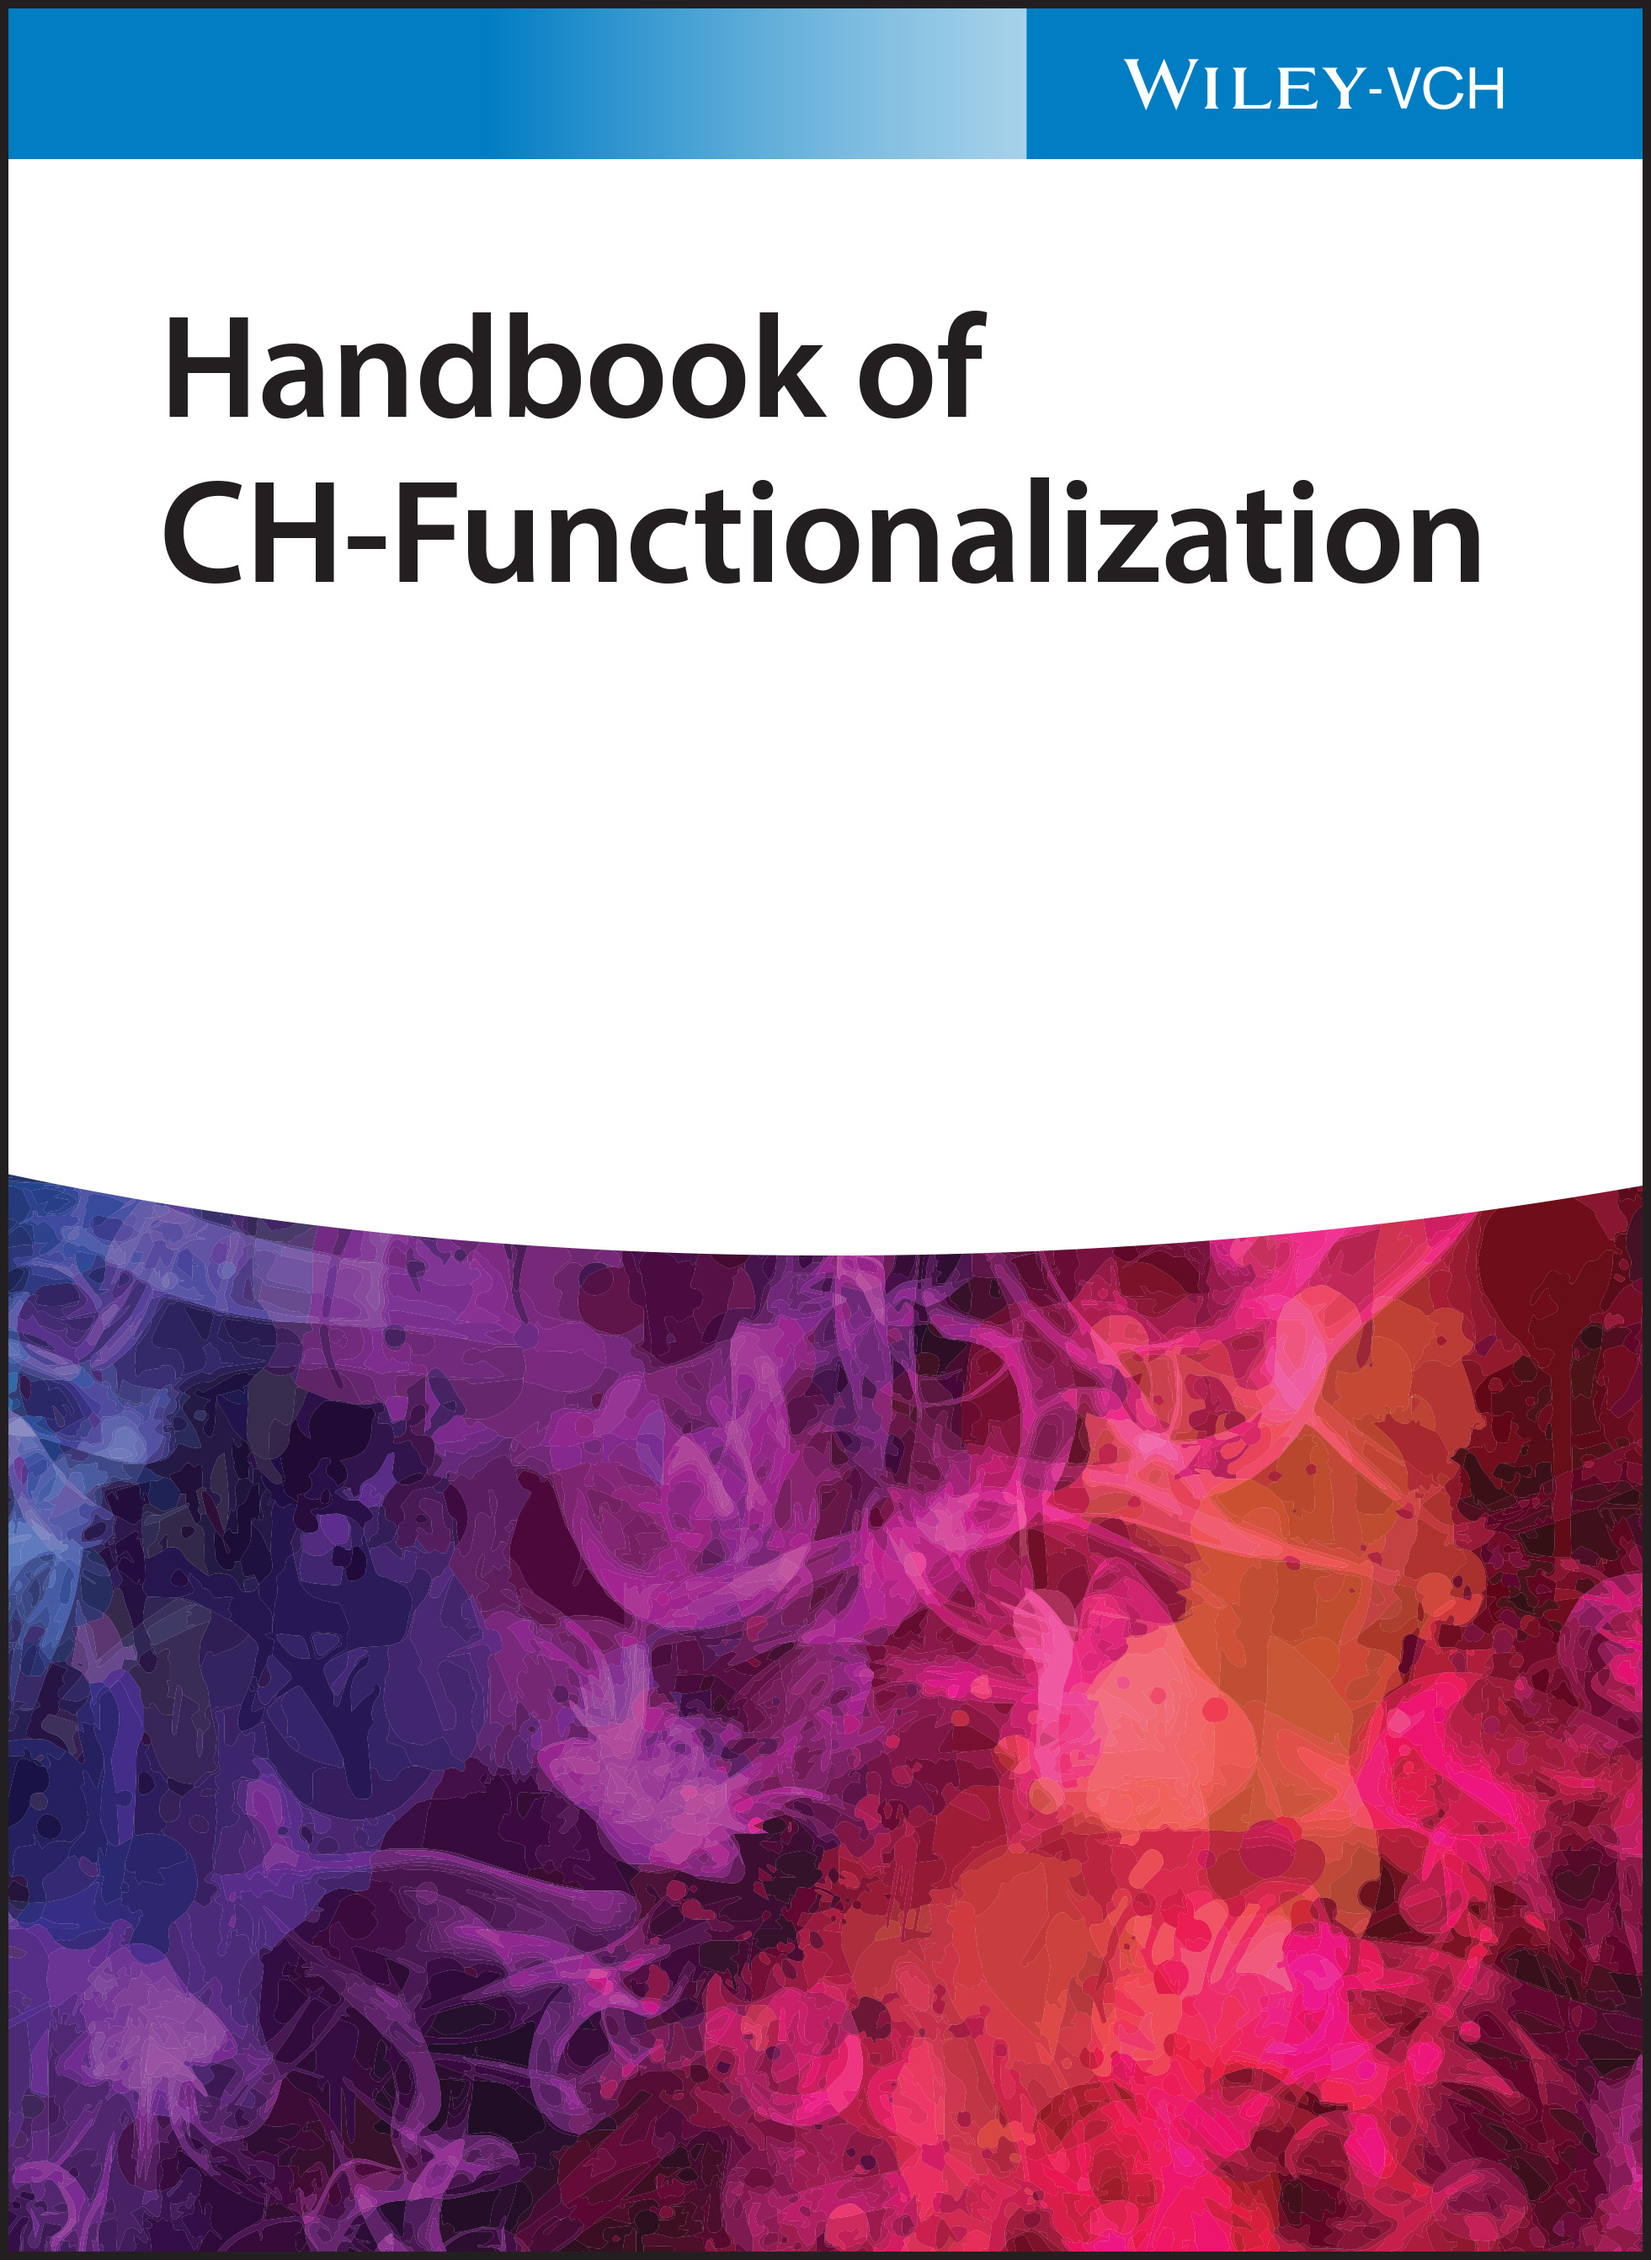
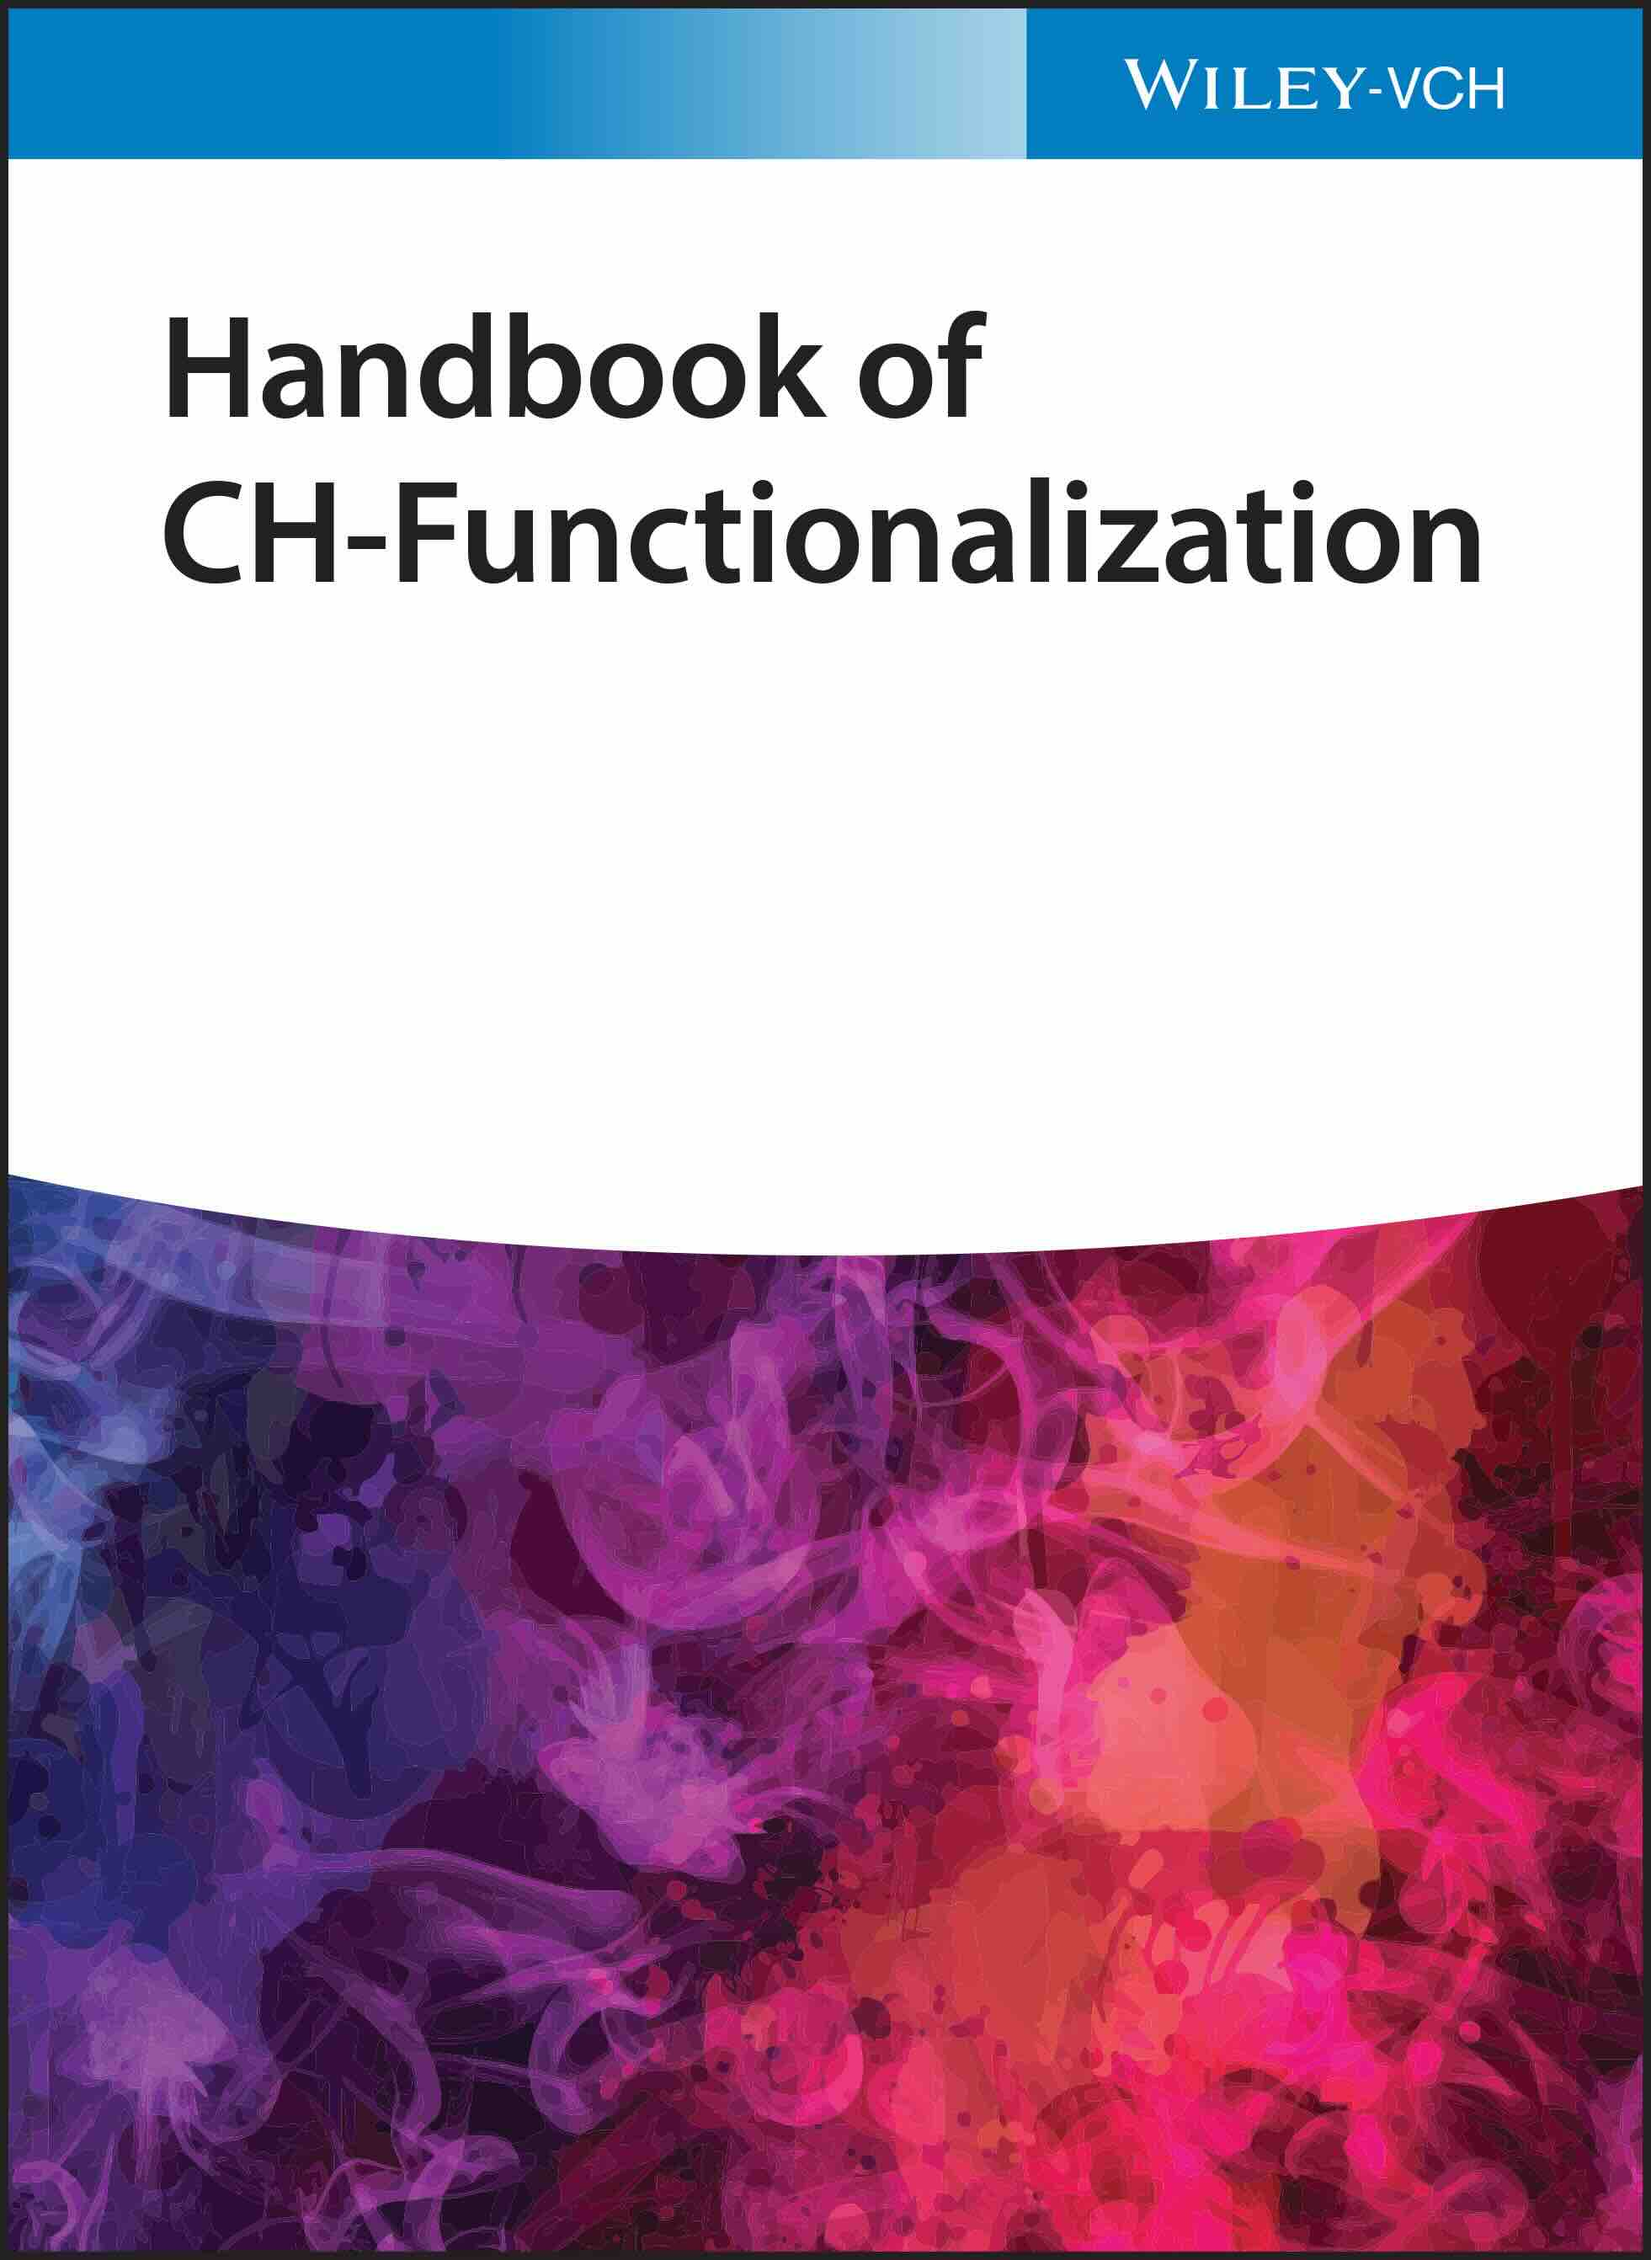
decrease file sizes for pubs covers

diff --git a/publications.html b/publications.html
@@ -371,7 +371,7 @@
 
             <td class="publication-image">
               <img
-                src="pubs/covers/angew2025.jpeg"
+                src="pubs/covers/angew2025.jpg"
                 alt="Angew Chem Int Ed 2025"
               />
             </td>
@@ -531,7 +531,7 @@
             </td>
 
             <td class="publication-image">
-              <img src="pubs/covers/acsami2024.jpeg" alt="ACS AMI 2025" />
+              <img src="pubs/covers/acsami2024.jpg" alt="ACS AMI 2025" />
             </td>
           </tr>
 
@@ -804,7 +804,7 @@
             </td>
             <td class="publication-image">
               <img
-                src="pubs/covers/acie2019_58_17.jpeg"
+                src="pubs/covers/acie2019_58_17.jpg"
                 alt="Publication Image"
               />
             </td>
@@ -1944,7 +1944,7 @@
 
             <td class="publication-image">
               <img
-                src="pubs/covers/acie2019_58_30.jpeg"
+                src="pubs/covers/acie2019_58_30.jpg"
                 alt="Publication Image"
               />
             </td>
@@ -1990,7 +1990,7 @@
 
             <td class="publication-image">
               <img
-                src="pubs/covers/acie2019_58_17.jpeg"
+                src="pubs/covers/acie2019_58_17.jpg"
                 alt="Publication Image"
               />
             </td>

diff --git a/zh/publications.html b/zh/publications.html
@@ -383,7 +383,7 @@
 
             <td class="publication-image">
               <img
-                src="../pubs/covers/angew2025.jpeg"
+                src="../pubs/covers/angew2025.jpg"
                 alt="Angew Chem Int Ed 2025"
               />
             </td>
@@ -816,7 +816,7 @@
             </td>
             <td class="publication-image">
               <img
-                src="../pubs/covers/acie2019_58_17.jpeg"
+                src="../pubs/covers/acie2019_58_17.jpg"
                 alt="Publication Image"
               />
             </td>
@@ -1968,7 +1968,7 @@
 
             <td class="publication-image">
               <img
-                src="../pubs/covers/acie2019_58_30.jpeg"
+                src="../pubs/covers/acie2019_58_30.jpg"
                 alt="Publication Image"
               />
             </td>
@@ -2015,7 +2015,7 @@
 
             <td class="publication-image">
               <img
-                src="../pubs/covers/acie2019_58_17.jpeg"
+                src="../pubs/covers/acie2019_58_17.jpg"
                 alt="Publication Image"
               />
             </td>
